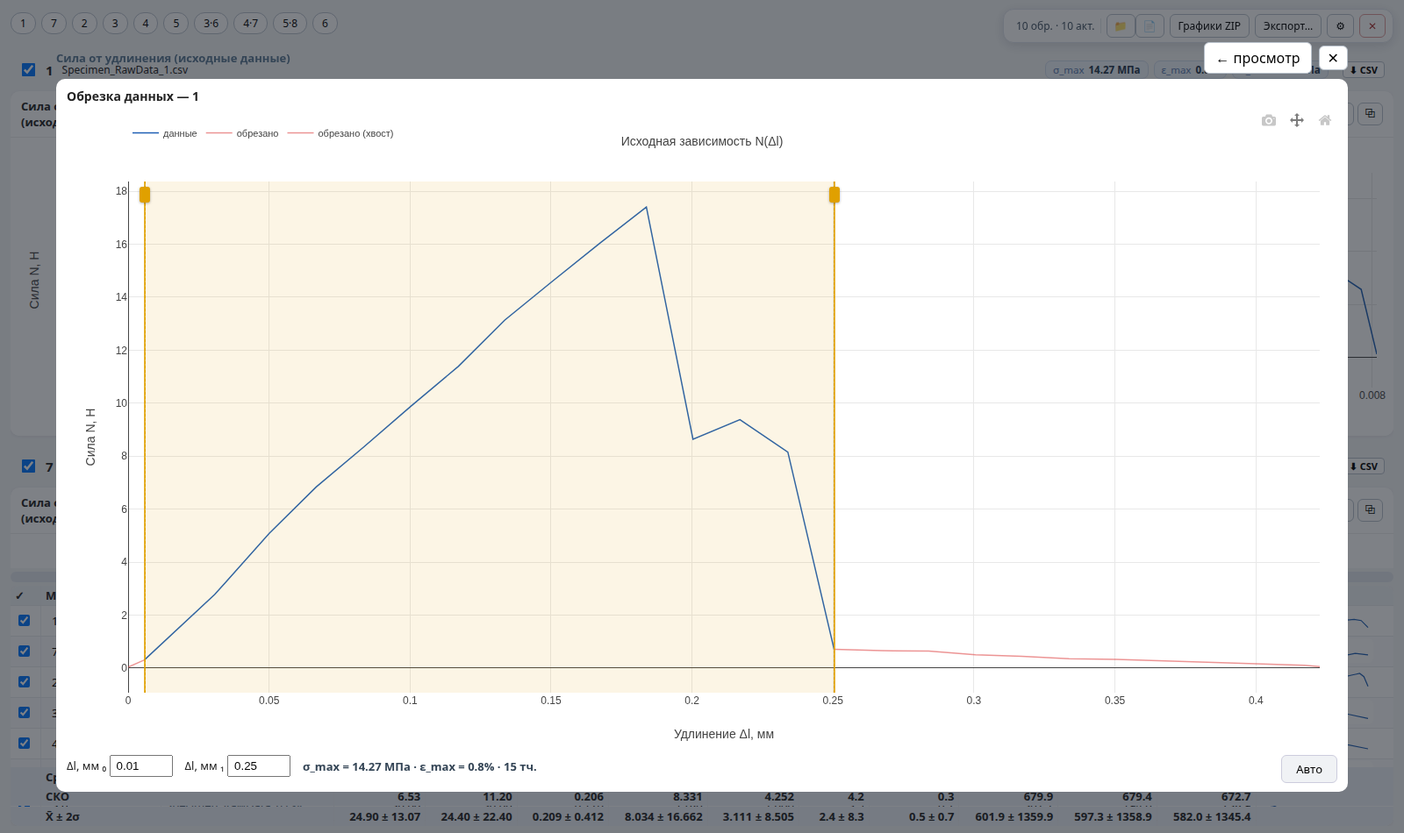
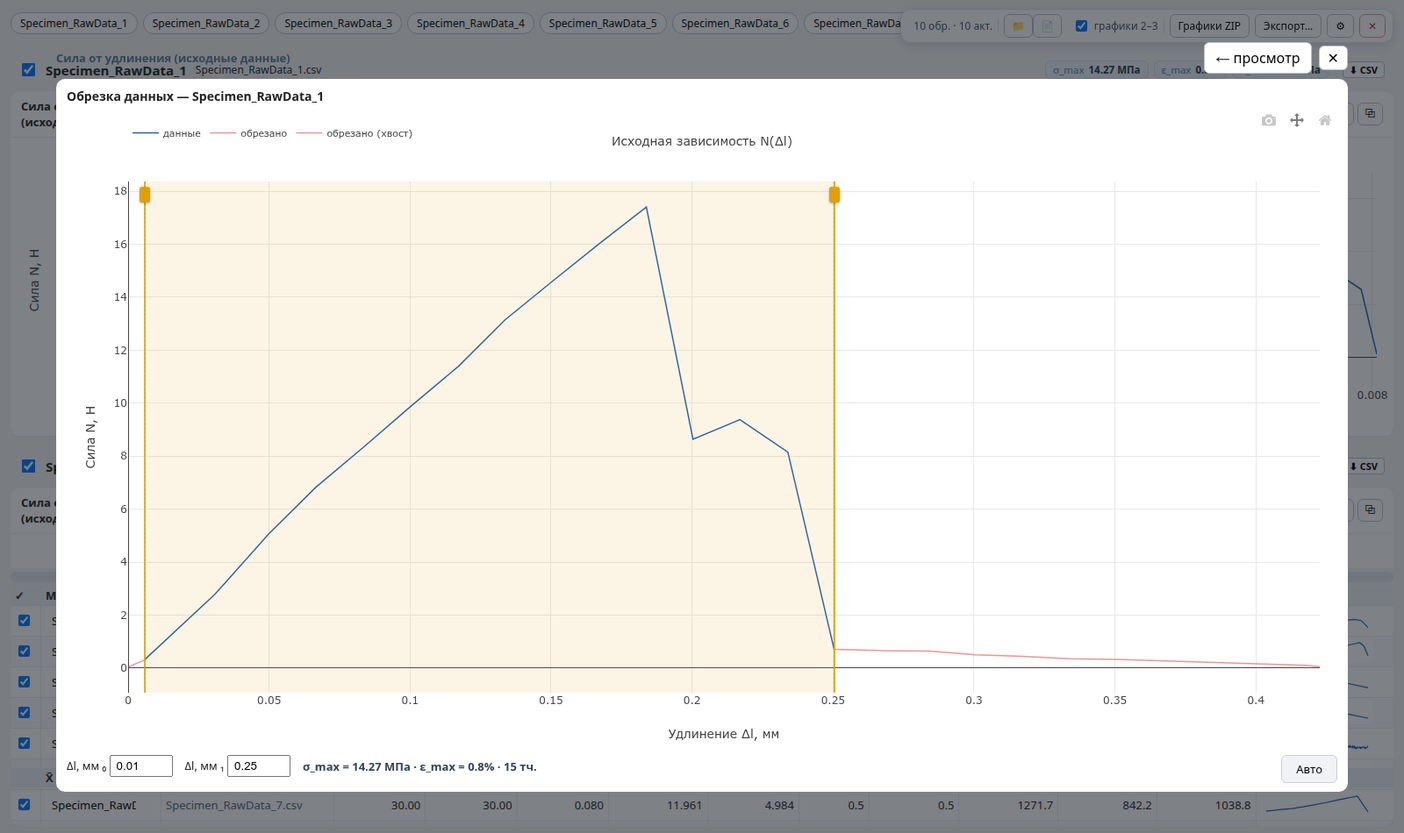
UX настроек: группы, немодальность, дебаунс, сброс; дефолт steepest
- ⚙ разбит на группы «Линейный участок» и «Обрезка данных»; параметры,
  не относящиеся к выбранному алгоритму, скрываются; кнопка сброса
  в DEFAULT_OPTS.
- Поповер больше не модальный: оверлей убран, графики остаются
  интерактивными; закрытие по ⚙/Esc.
- Пересчёт образцов — с дебаунсом 400 мс: ввод чисел не фризит UI
  (compute/перерисовка Plotly идут после паузы).
- Тогл переименован в «графики 2–3» — понятно, что скрывается.
- Алгоритм по умолчанию — «Самый крутой» (устойчив к toe-зоне).
- В таблице убраны строки Среднее/СКО — остаётся компактная X̄ ± 2σ.
- Гайд: обновлён §5 (группы, сброс, немодальность, таблица алгоритмов),
  §3 (X̄±2σ), §7 (Esc), FAQ; пересняты все скриншоты + новый кадр ⚙.

diff --git a/app/src/App.tsx b/app/src/App.tsx
@@ -1,4 +1,4 @@
-import { useMemo, useRef, useState } from 'react';
+import { useEffect, useMemo, useRef, useState } from 'react';
 import type { Specimen, CalcOptions, RegionAlgo } from './core/types';
 import { parseSpecimenCsv, parseResultsCsv, isResultsCsv } from './core/parse';
 import { compute, DEFAULT_OPTS, applyManualRegion, applyManualTrim } from './core/calc';
@@ -64,13 +64,30 @@ export default function App() {
     setErrors((prev) => [...prev, ...errs]);
   };
 
+  // пересчёт всех образцов и перерисовка графиков тяжёлые — применяем
+  // параметры с дебаунсом, чтобы ввод чисел не фризил интерфейс
+  const [optsD, setOptsD] = useState(opts);
+  useEffect(() => {
+    const t = setTimeout(() => setOptsD(opts), 400);
+    return () => clearTimeout(t);
+  }, [opts]);
+
+  // поповер параметров не модальный: графики остаются кликабельными,
+  // закрывается по ⚙ / Esc
+  useEffect(() => {
+    if (!optsOpen) return;
+    const onKey = (e: KeyboardEvent) => e.key === 'Escape' && setOptsOpen(false);
+    window.addEventListener('keydown', onKey);
+    return () => window.removeEventListener('keydown', onKey);
+  }, [optsOpen]);
+
   const rows = useMemo<Row[]>(
     () =>
       specimens
         .map((s) => {
           try {
             const tm = manualTrim.get(s.id);
-            let r = tm ? applyManualTrim(s, opts, tm.i0, tm.i1) : compute(s, opts);
+            let r = tm ? applyManualTrim(s, optsD, tm.i0, tm.i1) : compute(s, optsD);
             const m = manual.get(s.id);
             if (m) r = applyManualRegion(r, m.eps0, m.eps1);
             return { s, r };
@@ -79,7 +96,7 @@ export default function App() {
           }
         })
         .filter((x): x is Row => x !== null),
-    [specimens, opts, manual, manualTrim],
+    [specimens, optsD, manual, manualTrim],
   );
 
   const setManual = (id: string, v: { eps0: number; eps1: number } | null) =>
@@ -173,9 +190,9 @@ export default function App() {
             {errors.length > 0 && ` · ${errors.length} ош.`}
           </span>
           <DropZone compact onFiles={addFiles} />
-          <label className="mid-toggle" title="Показывать графики 2–3: N(Δl) после обрезки и σ(ε)">
+          <label className="mid-toggle" title="N(Δl) после обрезки и σ(ε) — нужны для проверки, не для фильтрации">
             <input type="checkbox" checked={showMid} onChange={(e) => setShowMid(e.target.checked)} />
-            промежуточные
+            графики 2–3
           </label>
           <button
             onClick={async () => {
@@ -201,9 +218,8 @@ export default function App() {
           <span className="opt-wrap">
             <button onClick={() => setOptsOpen((o) => !o)} title="Параметры обработки">⚙</button>
             {optsOpen && (
-              <>
-                <div className="pop-overlay" onClick={() => setOptsOpen(false)} />
-                <div className="opt-pop">
+              <div className="opt-pop">
+                <div className="opt-group">Линейный участок</div>
                 <div className="opt-row">
                   <label className="opt">
                     Алгоритм
@@ -211,8 +227,8 @@ export default function App() {
                       value={opts.algo}
                       onChange={(e) => setOpts((o) => ({ ...o, algo: e.target.value as RegionAlgo }))}
                     >
-                      <option value="first">Первый участок</option>
                       <option value="steepest">Самый крутой</option>
+                      <option value="first">Первый участок</option>
                       <option value="secant">Секущая ε₁→ε₂</option>
                     </select>
                   </label>
@@ -251,13 +267,20 @@ export default function App() {
                     <div className="opt-hint">границы деформации для секущей; ищутся ближайшие точки ряда</div>
                   </div>
                 )}
+                {opts.algo !== 'secant' && (
+                  <>
+                    {numInput('r2Min', '0.005', 'R² участка', 'требуемая линейность участка: выше — строже и короче')}
+                    {numInput('winFrac', '0.01', 'Мин. окно', 'масштаб окна оценки начального наклона (доля предпиковых точек)')}
+                    {numInput('slopeFrac', '0.05', 'Спад наклона', 'участок обрывается при падении наклона ниже доли от упругого; ↑ если захватывает следующий участок, ↓ если режет рано')}
+                  </>
+                )}
+                <div className="opt-group">Обрезка данных</div>
                 {numInput('trimK', '0.001', 'Порог начала', 'обрезка начала: точки с N < доли от N_max отсекаются (мёртвая зона, дребезг датчика)')}
                 {numInput('tailK', '0.05', 'Порог хвоста', 'обрезка хвоста после разрыва: отсекается, пока сила ниже доли от пиковой')}
-                {numInput('r2Min', '0.005', 'R² участка', 'требуемая линейность участка: выше — строже и короче', opts.algo === 'secant')}
-                {numInput('winFrac', '0.01', 'Мин. окно', 'масштаб окна оценки начального наклона (доля предпиковых точек)', opts.algo === 'secant')}
-                {numInput('slopeFrac', '0.05', 'Спад наклона', 'участок обрывается при падении наклона ниже доли от упругого; ↑ если захватывает следующий участок, ↓ если режет рано', opts.algo === 'secant')}
-                </div>
-              </>
+                <button className="opt-reset" onClick={() => setOpts(DEFAULT_OPTS)}>
+                  Сбросить по умолчаниям
+                </button>
+              </div>
             )}
           </span>
           <button
@@ -285,7 +308,7 @@ export default function App() {
               flashId={flashId}
               onManual={setManual}
               onManualTrim={setManualTrim}
-              opts={opts}
+              opts={optsD}
               showMid={showMid}
             />
           </div>
@@ -315,7 +338,7 @@ export default function App() {
         <p className="empty error-cell">{errors.length} файл(ов) не удалось прочитать</p>
       )}
       {exportOpen && (
-        <ExportDialog rows={activeRows} opts={opts} onClose={() => setExportOpen(false)} />
+        <ExportDialog rows={activeRows} opts={optsD} onClose={() => setExportOpen(false)} />
       )}
     </div>
   );

diff --git a/app/src/components/ResultsTable.tsx b/app/src/components/ResultsTable.tsx
@@ -93,11 +93,9 @@ export function ResultsTable({
   const active = rows.filter((r) => !excluded.has(r.s.id));
   const stat = (fn: (xs: number[]) => number) =>
     COLS.map((c) => fn(active.map((r) => c.get(r))));
-
-  const statRows: { name: string; vals: number[]; render: (c: Col, v: number) => string }[] = [
-    { name: 'Среднее', vals: stat(mean), render: (c, v) => (c.isPct ? pct(v) : fmt(v, c.d)) },
-    { name: 'СКО', vals: stat(std), render: (c, v) => (c.isPct ? pct(v) : fmt(v, c.d)) },
-  ];
+  const render = (c: Col, v: number) => (c.isPct ? pct(v) : fmt(v, c.d));
+  const means = stat(mean);
+  const stds = stat(std);
 
   const arrow = (key: string) => (sort?.key === key ? (sort.dir > 0 ? ' ▲' : ' ▼') : '');
 
@@ -168,27 +166,14 @@ export function ResultsTable({
         </tbody>
         {active.length > 0 && (
           <tfoot>
-            {statRows.map((sr) => (
-              <tr key={sr.name} className="stat-row">
-                <td />
-                <td colSpan={2}><b>{sr.name}</b></td>
-                {sr.vals.map((v, i) => (
-                  <td key={i} className="num"><b>{sr.render(COLS[i], v)}</b></td>
-                ))}
-                <td />
-              </tr>
-            ))}
             <tr className="stat-row">
               <td />
               <td colSpan={2}><b>X̄ ± 2σ</b></td>
-              {statRows[0].vals.map((m, i) => {
-                const s2 = statRows[1].vals[i];
-                return (
-                  <td key={i} className="num">
-                    <b>{statRows[0].render(COLS[i], m)} ± {statRows[1].render(COLS[i], 2 * s2)}</b>
-                  </td>
-                );
-              })}
+              {means.map((m, i) => (
+                <td key={i} className="num">
+                  <b>{render(COLS[i], m)} ± {render(COLS[i], 2 * stds[i])}</b>
+                </td>
+              ))}
               <td />
             </tr>
           </tfoot>

diff --git a/app/src/styles.css b/app/src/styles.css
@@ -23,7 +23,10 @@ h2 { font-size: 15px; margin: 14px 0 8px; }
 .island .counts { font-size: 12px; color: #456; padding: 0 6px; border-right: 1px solid #e4e8ee; }
 .island .dz-compact button { padding: 4px 8px; }
 .opt-wrap { position: relative; }
-.pop-overlay { position: fixed; inset: 0; z-index: 65; }
+.opt-group { font-size: 11px; font-weight: 600; text-transform: uppercase; letter-spacing: 0.4px; color: #7a8694; margin: 8px 0 4px; }
+.opt-group:first-child { margin-top: 0; }
+.opt-reset { width: 100%; margin-top: 10px; padding: 5px; font-size: 12px; color: #456; background: #f4f6f8; border: 1px solid #dde3e9; border-radius: 6px; cursor: pointer; }
+.opt-reset:hover { background: #e9edf2; }
 .opt-pop {
   position: absolute; top: calc(100% + 8px); right: 0; z-index: 70;
   background: #fff; border: 1px solid #dde2ea; border-radius: 10px;

diff --git a/app/src/core/types.ts b/app/src/core/types.ts
@@ -55,7 +55,7 @@ export interface CalcOptions {
   r2Min: number; // минимальный R² линейного участка (0.99)
   winFrac: number; // доля точек для мин. окна (0.10)
   slopeFrac: number; // допустимый спад наклона от начального максимума (0.70)
-  algo: RegionAlgo; // алгоритм поиска линейного участка ('first')
+  algo: RegionAlgo; // алгоритм поиска линейного участка ('steepest')
   epsSec0: number; // ε начала секущего участка, отн. ед. (0.0005 — как в ISO 527)
   epsSec1: number; // ε конца секущего участка, отн. ед. (0.0025)
 }

diff --git a/app/src/core/calc.ts b/app/src/core/calc.ts
@@ -2,7 +2,7 @@ import type { CalcOptions, CalcResult, Specimen } from './types';
 
 export const DEFAULT_OPTS: CalcOptions = {
   trimK: 0.005, tailK: 0.25, r2Min: 0.99, winFrac: 0.1, slopeFrac: 0.7,
-  algo: 'first', epsSec0: 0.0005, epsSec1: 0.0025,
+  algo: 'steepest', epsSec0: 0.0005, epsSec1: 0.0025,
 };
 
 /** Максимум массива циклом — спред Math.max(...xs) падает на >~100 тыс. точек */

diff --git a/docs/USER_GUIDE.md b/docs/USER_GUIDE.md
@@ -57,8 +57,8 @@
 - расчётные величины: N_max, σ_max, ε_max, ε@σ_max, E_тан, E_сек1, E_сек2;
 - мини-график σ(ε) — быстрый взгляд на форму кривой.
 
-Внизу — строки статистики по **активным** образцам: Среднее, СКО
-(по формуле методички — деление на n) и X̄ ± 2σ.
+Внизу — компактная строка статистики по **активным** образцам:
+**X̄ ± 2σ** (СКО по формуле методички — деление на n).
 
 **Сортировка** — клик по заголовку колонки; порядок синхронизирован
 с разделом графиков. Повторный клик меняет направление.
@@ -85,7 +85,7 @@
 N(Δl) и σ(ε).
 
 Графики 2 и 3 (промежуточные) можно скрыть переключателем
-**«промежуточные»** в верхней панели — останутся только исходная
+**«графики 2–3»** в верхней панели — останутся только исходная
 кривая (редактор обрезки) и аппроксимация (редактор участка),
 каждая на половину ширины. На экспорт это не влияет: в ZIP
 выгружаются все.
@@ -123,8 +123,8 @@ N(Δl) и σ(ε).
 Откройте график 4 — аналогично:
 
 - **ручки** задают границы участка по ε (можно тянуть и за пределы пика —
-  для особых случаев; авто-алгоритм выбирается в ⚙ — по умолчанию берётся
-  **первый линейный участок от начала кривой**, см. §5);
+  для особых случаев; авто-алгоритм выбирается в ⚙ — по умолчанию
+  «Самый крутой», см. §5);
 - поля **ε, %** — точный ввод;
 - предпросмотр показывает E_тан и R² в реальном времени;
 - **Авто** — вернуть автопоиск участка.
@@ -134,27 +134,35 @@ N(Δl) и σ(ε).
 
 ## 5. Параметры расчёта (кнопка ⚙)
 
-Под каждым параметром в окне настроек есть краткая подсказка —
-здесь то же самое чуть подробнее.
+![Окно параметров: группы «Линейный участок» и «Обрезка данных»](screenshots/07-params.png)
+
+Окно разделено на две группы: **«Линейный участок»** (алгоритм и его
+настройки) и **«Обрезка данных»** (пороги начала/хвоста). Под каждым
+параметром есть подсказка; параметры, не относящиеся к выбранному
+алгоритму, скрываются. Кнопка **«Сбросить по умолчаниям»** возвращает
+все значения.
+
+Окно не блокирует страницу: можно листать графики и смотреть на
+результат подстройки. Закрывается повторным ⚙ или **Esc**.
+
+Изменение параметра применяется автоматически (с небольшой задержкой —
+пересчёт не мешает вводу) для всех образцов, кроме отредактированных
+вручную. Десятичную часть можно вводить и через запятую.
 
 ### Алгоритм поиска линейного участка
 
 | Алгоритм | Что делает | Когда выбирать |
 |---|---|---|
-| **Первый участок** (по умолч.) | берёт первый непрерывно-линейный отрезок от начала σ(ε): окно растёт от начала, пока R² ≥ порога и наклон не упал ниже доли от максимального начального; стоп — при первом устойчивом нарушении | классические кривые с упругим участком в начале (пластики, плёнки, композиты) |
-| **Самый крутой** | ищет самый крутой непрерывно-линейный отрезок в предпиковой области — якорь у начала не обязателен | длинная toe-зона («распрямление» образца в начале записи), сдвинутый старт |
+| **Самый крутой** (по умолч.) | ищет самый крутой непрерывно-линейный отрезок в предпиковой области — упругая зона всегда самая крутая, поэтому алгоритм устойчив и к toe-зоне («распрямлению» в начале) | основной режим: классические кривые, кривые с пологим стартом |
+| **Первый участок** | берёт первый непрерывно-линейный отрезок именно от начала σ(ε): окно растёт от старта, пока R² ≥ порога и наклон не упал ниже доли от максимального начального; стоп — при первом устойчивом нарушении | когда методика требует участок строго от начала записи |
 | **Секущая ε₁→ε₂** | E = (σ(ε₂)−σ(ε₁))/(ε₂−ε₁) — хорда между заданными деформациями (по умолч. 0,05–0,25 %, как в ISO 527) | J-образные кривые без выраженного прямого участка (гидрогели, эластомеры, биоматериалы) |
 
 Для «Секущей» задаются поля **ε₁, %** и **ε₂, %** — берутся ближайшие
-точки ряда. Параметры R²/окно/наклон в этом режиме не используются
-(затенены).
+точки ряда. Параметры R²/окно/наклон в этом режиме скрываются —
+не используются.
 
-### Остальные параметры
+### Параметры группы «Линейный участок»
 
-- **Порог начала** (trimK, доля N_max) — отсекает мёртвую зону в начале
-  записи: точки с N < доли от N_max игнорируются. По умолчанию 0.005.
-- **Порог хвоста** (tailK) — отсекает «пустой» хвост после разрыва,
-  пока сила ниже доли от пиковой. По умолчанию 0.25.
 - **R² участка** (r2Min) — минимальный R² авто-найденного линейного
   участка: выше — строже и короче. По умолчанию 0.99.
 - **Мин. окно** (winFrac) — масштаб окна оценки начального наклона
@@ -165,9 +173,12 @@ N(Δl) и σ(ε).
   если алгоритм захватывает начало следующего участка; уменьшите —
   если обрезает раньше времени. По умолчанию 0.7.
 
-Изменение параметра мгновенно пересчитывает все образцы
-(кроме тех, где границы заданы вручную — они не трогаются).
-Десятичную часть можно вводить и через запятую.
+### Параметры группы «Обрезка данных»
+
+- **Порог начала** (trimK, доля N_max) — отсекает мёртвую зону в начале
+  записи: точки с N < доли от N_max игнорируются. По умолчанию 0.005.
+- **Порог хвоста** (tailK) — отсекает «пустой» хвост после разрыва,
+  пока сила ниже доли от пиковой. По умолчанию 0.25.
 
 ## 6. Экспорт
 
@@ -201,7 +212,7 @@ N(Δl) и σ(ε).
 
 | Клавиша | Действие |
 |---|---|
-| Esc | из редактора → в просмотр; из просмотра → закрыть окно |
+| Esc | из редактора → в просмотр; из просмотра → закрыть окно; закрыть окно параметров |
 | Enter | применить числовое значение границы |
 
 ## 8. Частые вопросы
@@ -215,7 +226,7 @@ N(Δl) и σ(ε).
 «Секущая») или подстройте параметры.
 
 **Исключил образец — статистика не поменялась?** — меняется сразу;
-строки «Среднее/СКО» внизу таблицы считаются только по активным.
+строка «X̄ ± 2σ» внизу таблицы считается только по активным.
 
 **Почему ε_max и ε@σ_max разные?** — ε_max — деформация в конце
 обрезанной кривой (момент разрыва), ε@σ_max — в точке максимальной силы;
